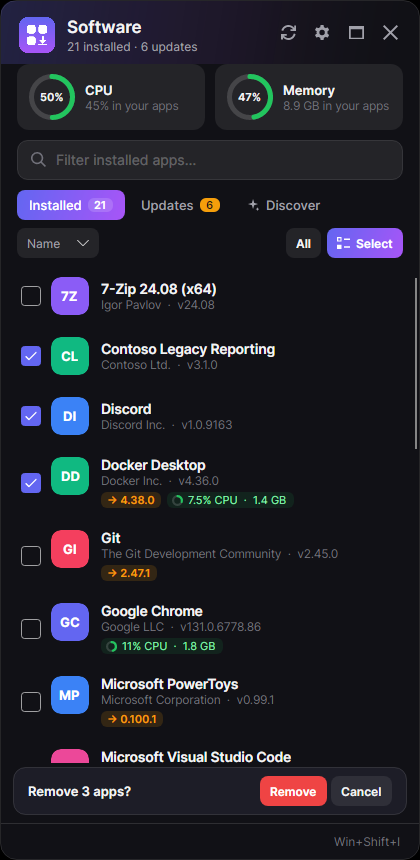
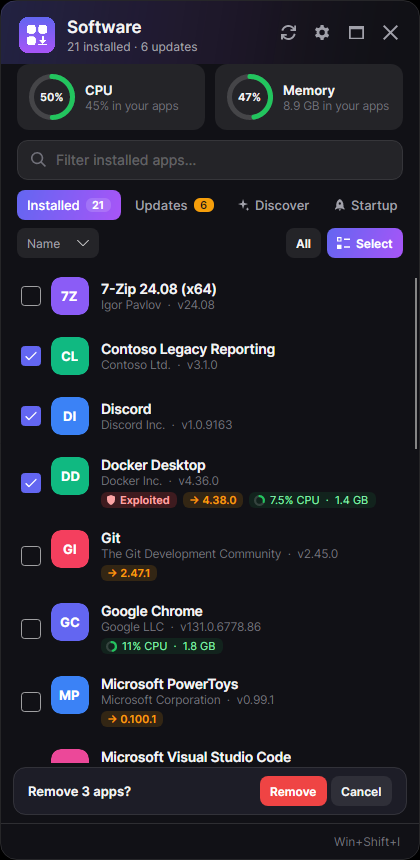
docs: 0.3.0 — ADR 0006, README features, screenshots and invariants
Version 0.3.0: merging this to main publishes the release and updates
installed docks.

diff --git a/README.md b/README.md
@@ -27,13 +27,17 @@ The same capabilities are exposed as an **MCP server**, so Claude Code, Copilot 
 can answer *"what do I have installed?"*, *"what is eating my memory?"*, *"update everything"* or
 *"install VLC"*.
 
-| Installed + gauges | Bulk uninstall | Settings |
+| Installed + gauges | Updates + security | Startup apps |
 | --- | --- | --- |
-| ![Installed apps with CPU and memory](docs/images/dock-installed.png) | ![Several apps selected for removal](docs/images/dock-select.png) | ![Settings](docs/images/dock-settings.png) |
+| ![Installed apps with CPU and memory](docs/images/dock-installed.png) | ![Updates, exploited first](docs/images/dock-updates.png) | ![What starts with Windows](docs/images/dock-startup.png) |
 
-| Updates | Discover | Restore from backup |
+| Leftovers, pinned, unused | Bulk uninstall | Settings |
 | --- | --- | --- |
-| ![Updates](docs/images/dock-updates.png) | ![Discover](docs/images/dock-discover.png) | ![Restore](docs/images/dock-restore.png) |
+| ![Leftovers after uninstall](docs/images/dock-leftovers.png) | ![Several apps selected for removal](docs/images/dock-select.png) | ![Settings](docs/images/dock-settings.png) |
+
+| Discover | Restore from backup |
+| --- | --- |
+| ![Discover](docs/images/dock-discover.png) | ![Restore](docs/images/dock-restore.png) |
 
 *Rendered by the headless UI tests from the real window, in demo mode.*
 
@@ -58,6 +62,19 @@ can answer *"what do I have installed?"*, *"what is eating my memory?"*, *"updat
   WinGet's, which restores a new PC with nothing but `winget import -i software-winget.json`.
   *Restore from backup* lists what is missing, ticks it all, installs it in one go, and names the
   apps you will need to fetch by hand.
+- **Security alerts** — apps with an update pending that attackers are exploiting right now (CISA's
+  Known Exploited Vulnerabilities catalog) get an *Exploited* badge and go first in Updates.
+- **Startup apps** — everything Windows starts at sign-in, with Task Manager's own switch: disable
+  without deleting, re-enable any time.
+- **Leftovers** — after an uninstall, the folders it left behind (install folder, AppData,
+  ProgramData) are offered for cleanup, to the Recycle Bin.
+- **Unused apps** — *Not opened for 8 months* badges from Windows' own launch history, and a
+  *Least used* sort to find what to remove.
+- **Pin or skip** — right-click an app: *Skip version 2.47.1* or *Pin — never update*.
+- **Updates on a schedule** — every night or every Sunday night; a run missed while the PC was off
+  happens when it wakes.
+- **Windows notifications** — new updates (once per version), security alerts first, scheduled-run
+  results, a new dock version.
 - **Start with Windows**, single instance, per-monitor DPI, settings per user.
 - **Updates itself** from GitHub releases (Velopack): it downloads in the background and offers
   *Restart to update*.
@@ -136,6 +153,10 @@ each tool takes and where it comes from, and to confirm changes with the user fi
 | `uninstall_software` | destructive | Remove an installed app by `key` |
 | `list_running_software` | read-only | Running apps with CPU % and memory, heaviest first |
 | `export_software_backup` | read-only | Backup JSON in Software Dock or `winget import` format |
+| `get_security_advisories` | read-only | Apps with pending updates that are actively exploited (CISA KEV) |
+| `list_unused_software` | read-only | Apps not opened for N days, largest first |
+| `list_startup_apps` | read-only | What starts with Windows, enabled or not, and which app it belongs to |
+| `set_startup_app_enabled` | changes the PC | Enable/disable a startup app the way Task Manager does |
 
 Add `"args": ["--read-only"]` to expose only the read-only tools.
 
@@ -159,6 +180,7 @@ Decisions worth reading before changing things:
 3. [A tray app in Avalonia, not a PowerToys module](docs/adr/0003-tray-app-not-powertoys-module.md)
 4. [MCP: discovery through instructions, safety through the domain](docs/adr/0004-mcp-discovery-and-safety.md)
 5. [Releases and self-update with Velopack](docs/adr/0005-self-update-with-velopack.md)
+6. [PC hygiene: startup, security, leftovers, unused apps, schedules, notifications](docs/adr/0006-pc-hygiene-features.md)
 
 ## How it compares
 
@@ -170,6 +192,8 @@ Decisions worth reading before changing things:
 | Bulk uninstall | ✅ | ✅ | — | — |
 | CPU / memory per app | ✅ | — | — | — |
 | Backup / restore | ✅ (+ `winget import` format) | ✅ | — | — |
+| Exploited-vulnerability alerts | ✅ | — | — | — |
+| Startup apps / leftovers / unused apps | ✅ | — | — | — |
 | MCP server for agents | ✅ inventory + install/upgrade/uninstall | — | ✅ find + install | — |
 
 UniGetUI is the most complete GUI if you want many package managers. Software Dock is deliberately

diff --git a/CLAUDE.md b/CLAUDE.md
@@ -21,7 +21,7 @@ on Windows.
 
 | Project | Responsibility |
 | --- | --- |
-| `Domain` | `InstalledApplication`, `ApplicationKey`, `PackageId`, `UninstallCommand`, `InventoryReconciler`. Pure. |
+| `Domain` | `InstalledApplication`, `ApplicationKey`, `PackageId`, `UninstallCommand`, `InventoryReconciler`, `ApplicationRoots`, `StartupApproval`, `UpdateRules`/`UpdateSchedule`, `SecurityAdvisor`, `LeftoverCandidates`. Pure. |
 | `Application` | `SoftwareInventory` (cached snapshot), `SoftwareOperations` (serialized install/upgrade/uninstall), `UninstallPlan`. Ports in `Abstractions/`. |
 | `Infrastructure` | `WinGetPackageManager` + `WinGetTableParser`, `RegistryInstalledApplicationSource`, `ShellUninstallerLauncher`, `ProcessRunner`. |
 | `Mcp` | Tools, `ServerInstructions`, `McpServerRegistration`, `--print-config`, `--read-only`. |
@@ -54,6 +54,16 @@ on Windows.
   culture, never hardcode `8.9` (fails on es-ES).
 - **Self-update applies only on *Restart to update*** (checked 1 min after start, then twice a day;
   downloads delta). Manual equivalent: `%LOCALAPPDATA%\SoftwareDock\Update.exe apply -- --background`.
+- **One path → app rule** (`ApplicationRoots`) for processes, startup entries, UserAssist history and
+  leftovers. Never add name-based matching beside it.
+- **Startup changes go through `StartupApproved`**, never by deleting Run values or shortcuts.
+- **Security alerts only for apps with an update pending**; KEV names products, not versions. Keep
+  the matching strict and the wording "exploited", never "vulnerable".
+- **Leftovers go to the Recycle Bin** and are offered only for apps no longer in the inventory.
+- **Pins/skips are dock preferences** (`UserSettings.UpdateRules`): excluded from Update all, the
+  schedule and notifications; the MCP server still reports raw updates.
+- **Notifications announce each version once** (`UpdateAnnouncer`, `AnnouncedUpdates`).
+- **The app targets `net10.0-windows10.0.19041.0`** (toasts); tests for it target the same TFM.
 - **Anchored panel + dialogs:** wrap any picker/dialog in `DockWindow.SuspendAutoHide()`, or the
   panel hides when the dialog takes focus.
 
@@ -61,8 +71,8 @@ on Windows.
 
 - Inno Setup / some NSIS uninstallers relaunch from `%TEMP%` and exit at once; the inventory may
   still list the app until the next refresh.
-- Silent uninstall of a per-machine MSI from a non-elevated dock fails with 1603 (same with plain
-  `winget uninstall --silent`): quiet MSI cannot raise UAC. Interactive mode or an elevated shell works.
+- Silent uninstall of a per-machine MSI uses `msiexec /X… /passive` (fixed in 0.3.0): `/qn`, and so
+  `winget uninstall --silent`, cannot raise UAC and fails with 1603 from a non-elevated process.
 - Some Inno uninstallers run via WinGet's `/SILENT` take minutes (TreeSize Free: 6.5 min); the MCP
   call blocks meanwhile.
 - WinGet truncates long ids in its tables; such apps fall back to their registered uninstaller

diff --git a/docs/adr/0006-pc-hygiene-features.md b/docs/adr/0006-pc-hygiene-features.md
@@ -1,0 +1,34 @@
+# ADR 0006 — PC hygiene: startup apps, security alerts, leftovers, unused apps, schedules, notifications
+
+**Status:** accepted
+
+## Context
+
+Beyond install/update/uninstall, the things most Windows users never get round to are: trimming what
+starts with Windows, knowing which updates actually matter, cleaning what uninstallers leave behind,
+spotting software they no longer use, and updating without thinking about it. Each needs a data
+source Windows does not expose as an API, and each can do harm if it guesses.
+
+## Decisions
+
+| Feature | Source of truth | Why this one | Safety rule |
+| --- | --- | --- | --- |
+| Startup apps | Run keys + Startup folders, `Explorer\StartupApproved` | It is what Task Manager reads and writes | Disable, never delete; HKLM entries say they need admin |
+| Security alerts | CISA Known Exploited Vulnerabilities catalog | Free, curated, "exploited now" rather than "a CVE exists" | Flag only apps with an update pending; strict name matching + small alias list |
+| Leftovers | Install folder + exact-name folders in well-known locations | Predictable, explainable | Recycle Bin only; offered only once the app is really gone |
+| Unused apps | Explorer's UserAssist launch history | Per user, no admin, already maintained by Windows | Informational badge and sort; never acts on its own |
+| Pin / skip version | Per-user settings | A user preference, not machine state | Pinned apps are excluded from Update all, schedules and notifications |
+| Scheduled updates | In-process clock check every minute | Survives sleep (a missed run is due on wake) without a scheduled task | Records the run before starting it; batch stops on a dismissed UAC prompt |
+| Notifications | Toasts via the Windows Community Toolkit compat layer | Works unpackaged (portable and Velopack) | Each version announced once; nothing while the user can see the panel |
+
+Path → application attribution for startup entries, usage history, leftovers and resource usage is
+one rule (`ApplicationRoots`): the deepest specific install folder wins.
+
+## Consequences
+
+- The app now targets `net10.0-windows10.0.19041.0` for WinRT toasts (minimum supported Windows 10 1809).
+- The KEV catalog names products, not versions: "exploited + you are behind" is the strongest claim
+  it supports, and the UI words it that way ("Exploited", "under active attack"), not "vulnerable".
+- UserAssist only records programs started from Explorer, the Start menu or the taskbar; apps run
+  some other way are "unknown", never "unused".
+- Pins and skipped versions are dock preferences; the MCP server reports raw updates.
